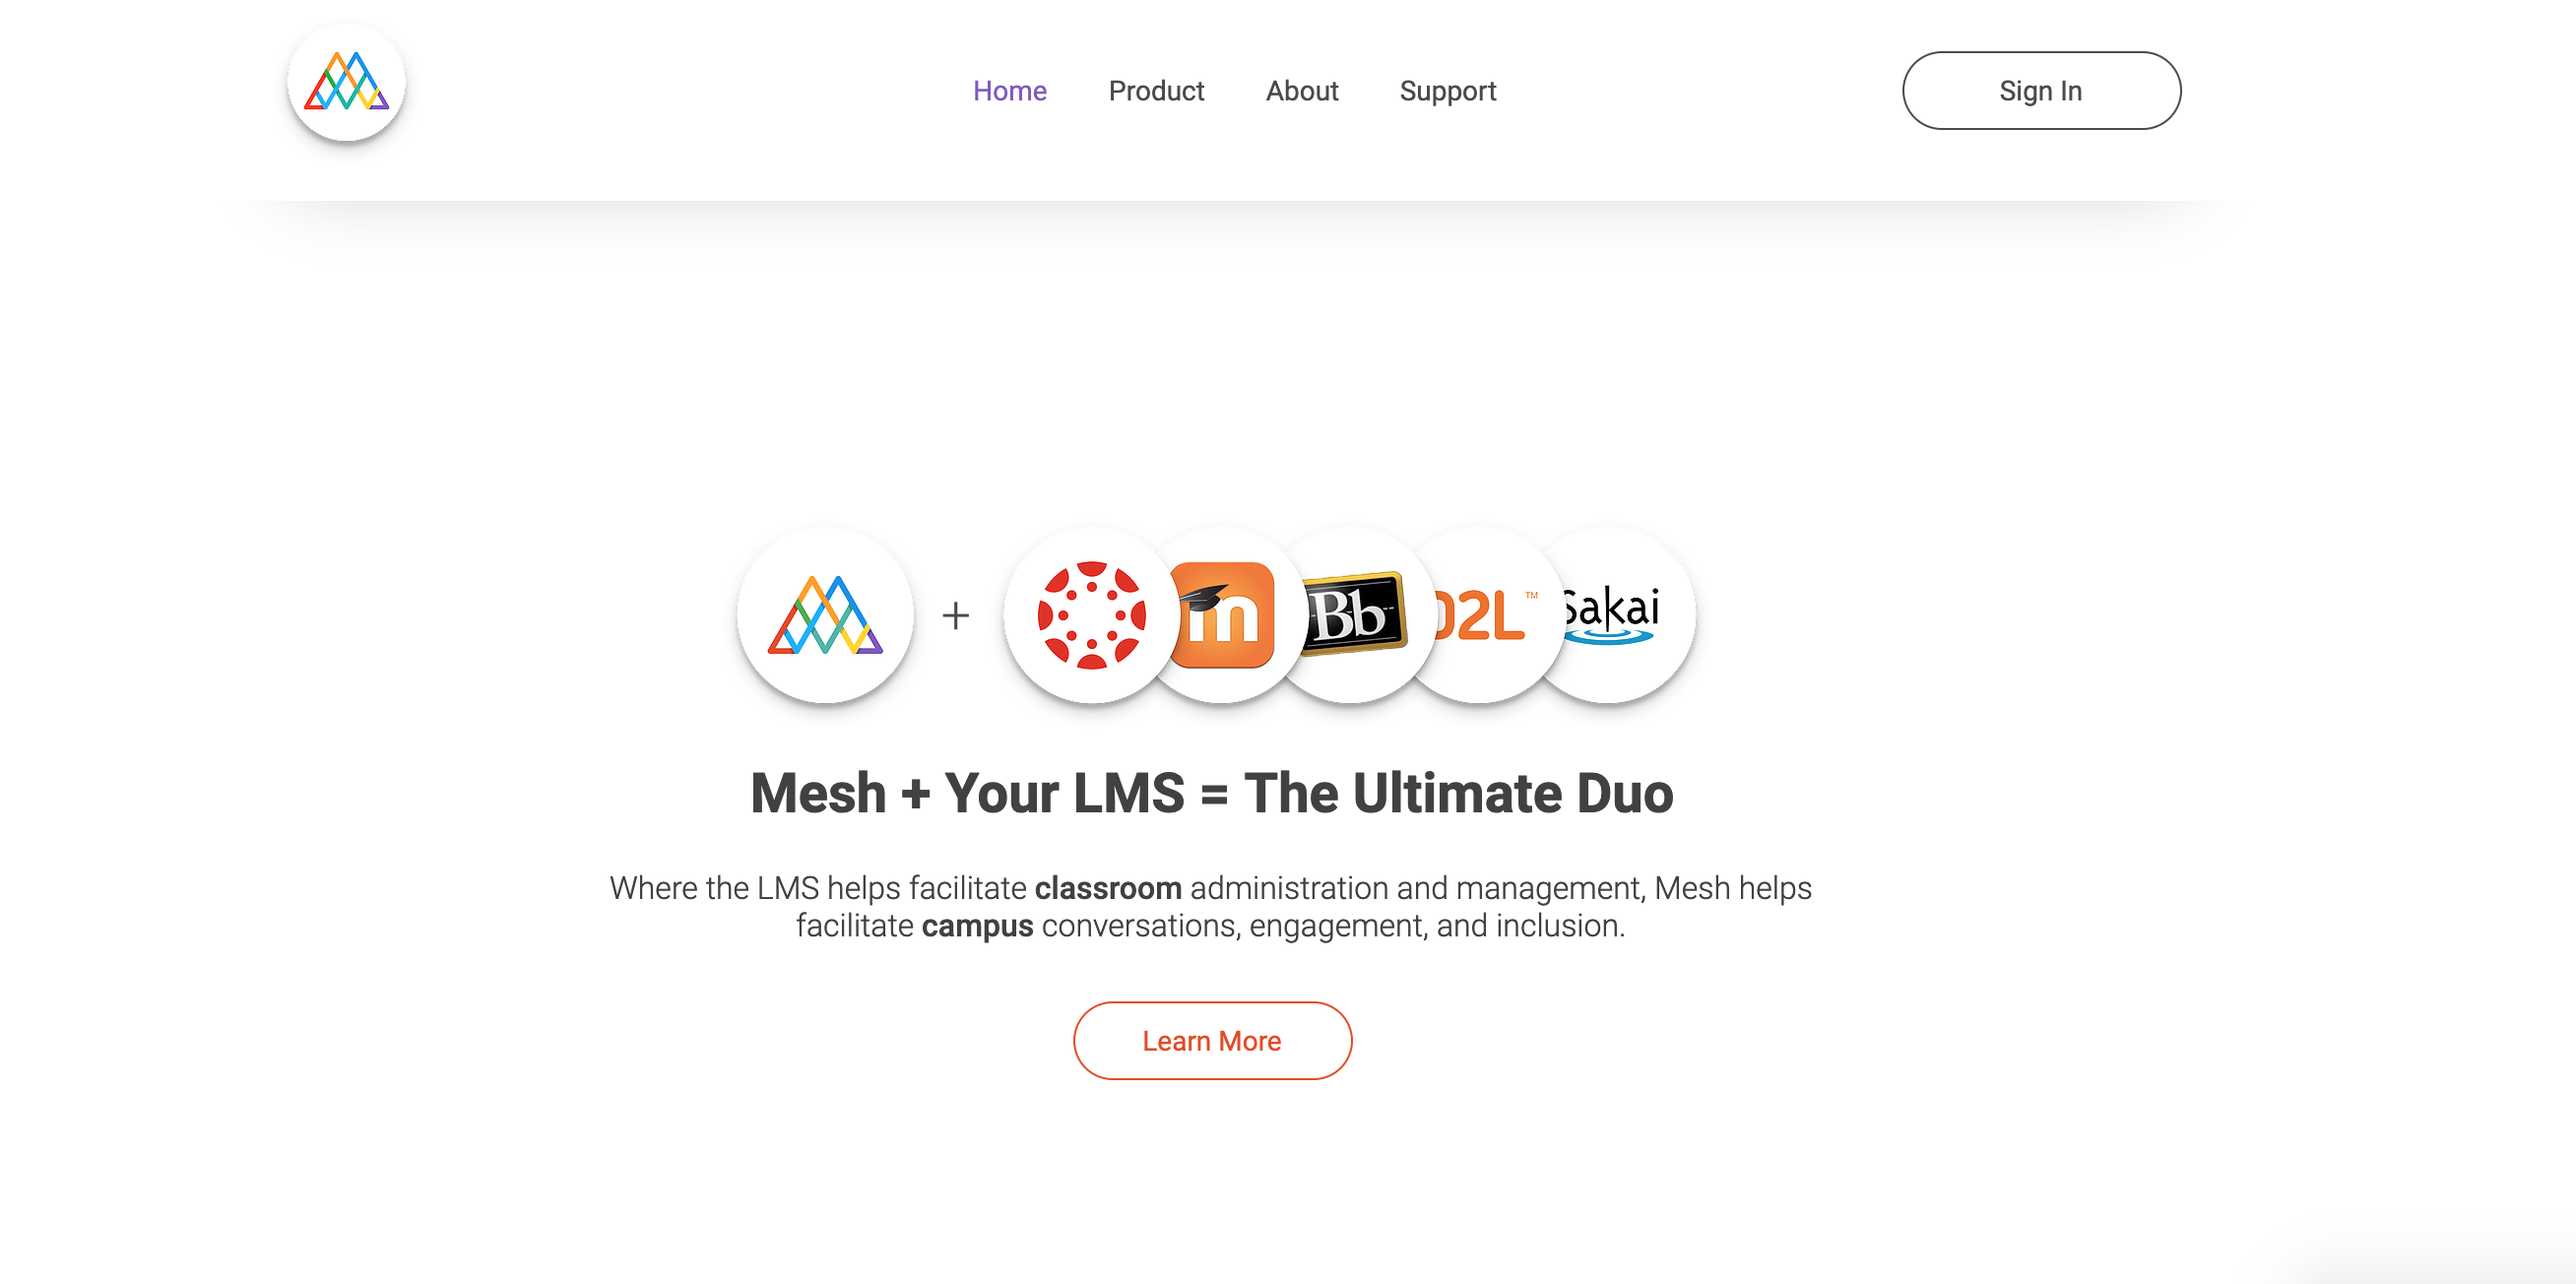
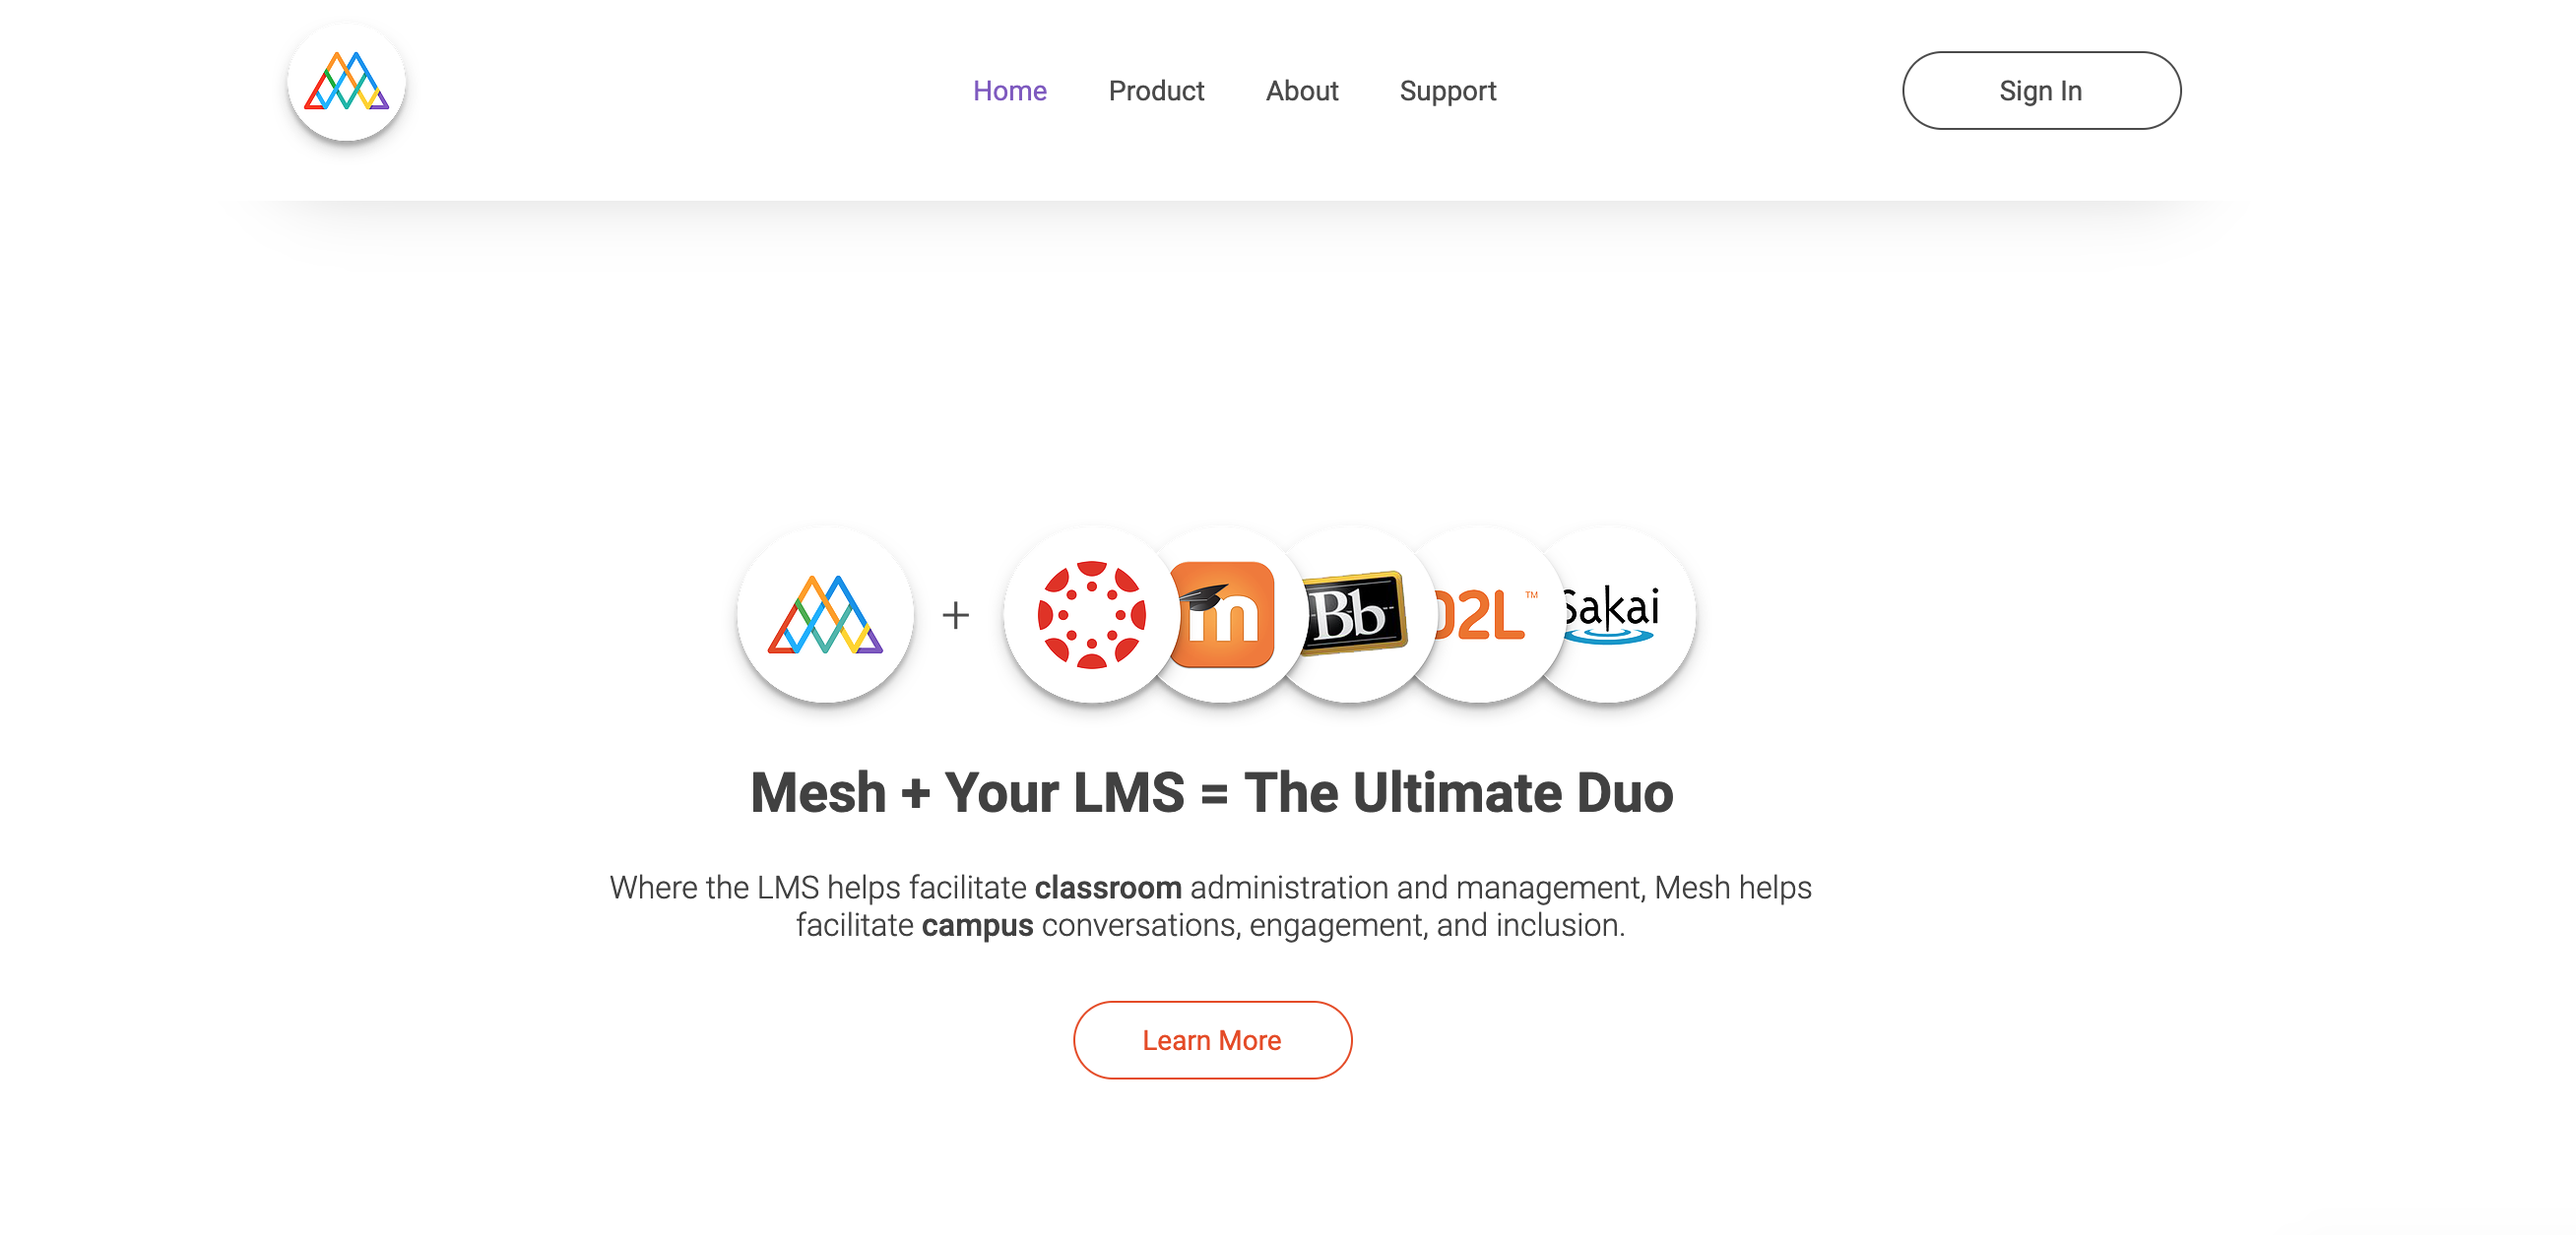
1

diff --git a/_projects/2018-09-01-InternProject.md b/_projects/2018-09-01-InternProject.md
@@ -16,7 +16,7 @@ featured_image: '/images/portfolio/2018-09-01-InternProject/cover.png'
     <img src="/images/portfolio/2018-09-01-InternProject/MeshIntro3.png">
 </div>
 
-Mesh is on a mission to fuel conversations, facilitate collaboration, and help instill a sense of community for students, faculty, and staff in Higher Education. By providing a real-time platform that seamlessly integrates into the everyday lives of students, faculty, and staff we can achieve just that. Mesh is currently an early-stage technology company based out of Cincinnati, Ohio. <a href="https://meshmycampus.com" class="button button--small">Learn More</a>
+Mesh is on a mission to fuel conversations, facilitate collaboration, and help instill a sense of community for students, faculty, and staff in Higher Education. By providing a real-time platform that seamlessly integrates into the everyday lives of students, faculty, and staff we can achieve just that. Mesh is currently an early-stage technology company based out of Cincinnati, Ohio. <a href="https://meshmycampus.com">Learn More</a>
 
 ---
 
